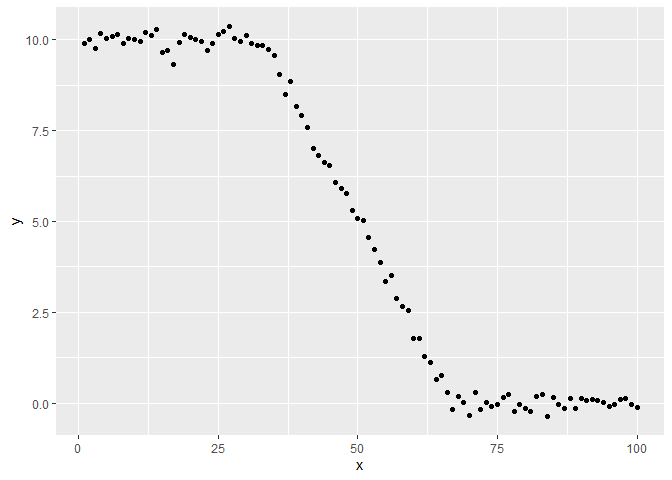
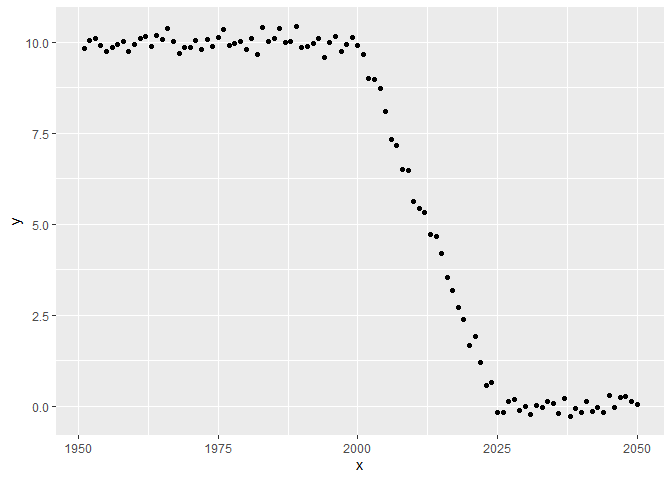
Added Installation Instructions

diff --git a/README.md b/README.md
@@ -15,7 +15,7 @@ Guner (2023)
 You can install the development version of DTtiming like so:
 
 ``` r
-# FILL THIS IN! HOW CAN PEOPLE INSTALL YOUR DEV PACKAGE?
+remotes::install_github("https://github.com/m-g-h/DTtiming")
 ```
 
 ## Example
@@ -25,18 +25,17 @@ Setup and example data:
 ``` r
 library(DTtiming)
 library(ggplot2)
-## basic example code
 
 ## Create example data:
 T_max = 100
-x_t = rep(1, T_max)
-tau_2 = 33
-tau_3 = 67
-y = matrix(make_z1_scalar(1:T_max, tau_2, tau_3)*10 + rnorm(T_max, sd = 0.2),
+t = 1950+(1:T_max)
+tau_2 = 2000
+tau_3 = 2025
+y = matrix(make_z1_scalar(t, tau_2, tau_3)*10 + rnorm(T_max, sd = 0.2),
           ncol = 1)
 
 # Plot the data:
-ggplot(data.frame(x = 1:T_max,
+ggplot(data.frame(x = t,
                   y = y),
   aes(x = x, y = y)) +
   geom_point()
@@ -60,63 +59,60 @@ All relevant parameters are returned:
 ``` r
 DT_fit
 #> $alpha
-#>      alpha_1      alpha_3 
-#>  9.987139349 -0.004478673 
+#>       alpha_1       alpha_3 
+#>  9.9911061047 -0.0002470735 
 #> 
 #> $sigma_sq
 #> sigma_sq_1 sigma_sq_3 
-#> 0.03478493 0.02372242 
+#> 0.03392059 0.02716421 
 #> 
 #> $tau
 #> tau_2 tau_3 
-#>    33    67 
+#>    50    75 
 #> 
 #> $y
-#>   [1]  9.890167819 10.020203687  9.759041933 10.184980403 10.039595950
-#>   [6] 10.096792669 10.147495896  9.898873318 10.043389016 10.011763348
-#>  [11]  9.966050699 10.213709636 10.128684842 10.275726922  9.640255337
-#>  [16]  9.720294418  9.327009406  9.930898442 10.156115581 10.070578250
-#>  [21] 10.015427710  9.949626466  9.712690189  9.895488752 10.149218676
-#>  [26] 10.231467910 10.361053427 10.044765335  9.964233155 10.125179303
-#>  [31]  9.898198425  9.844739951  9.840190949  9.728676934  9.583397621
-#>  [36]  9.059907473  8.495441461  8.845033362  8.164286380  7.916955362
-#>  [41]  7.575871913  7.005766973  6.819672736  6.613282032  6.537927149
-#>  [46]  6.081440068  5.905171193  5.776291182  5.303095091  5.093959962
-#>  [51]  5.038260379  4.570676159  4.220510832  3.882622736  3.359684266
-#>  [56]  3.503205643  2.866167490  2.671116562  2.560773310  1.789546569
-#>  [61]  1.769174757  1.271590335  1.111976547  0.648370285  0.765391982
-#>  [66]  0.295301403 -0.182389037  0.184185631  0.025580466 -0.340099596
-#>  [71]  0.284500425 -0.165963771  0.005081034 -0.085596164 -0.042550736
-#>  [76]  0.162345892  0.241675481 -0.219051022 -0.040603517 -0.161481895
-#>  [81] -0.219935028  0.192610117  0.230306495 -0.355179036  0.147085460
-#>  [86] -0.042487424 -0.140062243  0.119271357 -0.152930038  0.116276047
-#>  [91]  0.076812450  0.085554178  0.075879233  0.023715075 -0.089159599
-#>  [96] -0.051959602  0.112950941  0.134099638 -0.051685488 -0.124024882
+#>   [1]  9.81559941 10.04116663 10.09262839  9.92158327  9.74988627  9.85635686
+#>   [7]  9.94676542 10.01008928  9.75391763  9.92302483 10.09624282 10.16788880
+#>  [13]  9.89509541 10.18079171 10.06412345 10.36969151 10.02197098  9.70114019
+#>  [19]  9.84877976  9.84816401 10.03601738  9.80682423 10.07746869  9.88382435
+#>  [25] 10.14002805 10.34583038  9.91531077  9.97062246 10.03000708  9.80369614
+#>  [31] 10.10378120  9.65479454 10.40603044 10.02928931 10.08856186 10.37533121
+#>  [37]  9.99517284 10.01568301 10.42354985  9.84162851  9.88099758  9.97548229
+#>  [43] 10.10082831  9.57883813  9.98621688 10.15938566  9.73415888  9.93938333
+#>  [49] 10.12711402  9.91138105  9.66823175  9.00166787  8.96119905  8.73662052
+#>  [55]  8.10131307  7.31726470  7.17321175  6.50654816  6.48175681  5.63153779
+#>  [61]  5.43486151  5.33426453  4.72422165  4.65860236  4.19751433  3.54346724
+#>  [67]  3.17569933  2.71492670  2.37421413  1.68033502  1.92559125  1.19693078
+#>  [73]  0.57822333  0.66239580 -0.17668770 -0.17728216  0.14101733  0.18256314
+#>  [79] -0.11458882 -0.01622389 -0.22517991  0.01733328 -0.04172466  0.12250288
+#>  [85]  0.07643121 -0.20221199  0.21438682 -0.26986148 -0.06414734 -0.16877885
+#>  [91]  0.12646352 -0.13706212 -0.04556253 -0.17163336  0.29402406 -0.03181302
+#>  [97]  0.24170050  0.25963055  0.13766851  0.04548125
 #> 
 #> $y_hat
-#>   [1]  9.987139349  9.987139349  9.987139349  9.987139349  9.987139349
-#>   [6]  9.987139349  9.987139349  9.987139349  9.987139349  9.987139349
-#>  [11]  9.987139349  9.987139349  9.987139349  9.987139349  9.987139349
-#>  [16]  9.987139349  9.987139349  9.987139349  9.987139349  9.987139349
-#>  [21]  9.987139349  9.987139349  9.987139349  9.987139349  9.987139349
-#>  [26]  9.987139349  9.987139349  9.987139349  9.987139349  9.987139349
-#>  [31]  9.987139349  9.987139349  9.987139349  9.693268231  9.399397113
-#>  [36]  9.105525994  8.811654876  8.517783758  8.223912639  7.930041521
-#>  [41]  7.636170403  7.342299285  7.048428166  6.754557048  6.460685930
-#>  [46]  6.166814811  5.872943693  5.579072575  5.285201456  4.991330338
-#>  [51]  4.697459220  4.403588102  4.109716983  3.815845865  3.521974747
-#>  [56]  3.228103628  2.934232510  2.640361392  2.346490274  2.052619155
-#>  [61]  1.758748037  1.464876919  1.171005800  0.877134682  0.583263564
-#>  [66]  0.289392446 -0.004478673 -0.004478673 -0.004478673 -0.004478673
-#>  [71] -0.004478673 -0.004478673 -0.004478673 -0.004478673 -0.004478673
-#>  [76] -0.004478673 -0.004478673 -0.004478673 -0.004478673 -0.004478673
-#>  [81] -0.004478673 -0.004478673 -0.004478673 -0.004478673 -0.004478673
-#>  [86] -0.004478673 -0.004478673 -0.004478673 -0.004478673 -0.004478673
-#>  [91] -0.004478673 -0.004478673 -0.004478673 -0.004478673 -0.004478673
-#>  [96] -0.004478673 -0.004478673 -0.004478673 -0.004478673 -0.004478673
+#>   [1]  9.9911061047  9.9911061047  9.9911061047  9.9911061047  9.9911061047
+#>   [6]  9.9911061047  9.9911061047  9.9911061047  9.9911061047  9.9911061047
+#>  [11]  9.9911061047  9.9911061047  9.9911061047  9.9911061047  9.9911061047
+#>  [16]  9.9911061047  9.9911061047  9.9911061047  9.9911061047  9.9911061047
+#>  [21]  9.9911061047  9.9911061047  9.9911061047  9.9911061047  9.9911061047
+#>  [26]  9.9911061047  9.9911061047  9.9911061047  9.9911061047  9.9911061047
+#>  [31]  9.9911061047  9.9911061047  9.9911061047  9.9911061047  9.9911061047
+#>  [36]  9.9911061047  9.9911061047  9.9911061047  9.9911061047  9.9911061047
+#>  [41]  9.9911061047  9.9911061047  9.9911061047  9.9911061047  9.9911061047
+#>  [46]  9.9911061047  9.9911061047  9.9911061047  9.9911061047  9.9911061047
+#>  [51]  9.5914519776  9.1917978504  8.7921437233  8.3924895962  7.9928354690
+#>  [56]  7.5931813419  7.1935272148  6.7938730877  6.3942189605  5.9945648334
+#>  [61]  5.5949107063  5.1952565792  4.7956024520  4.3959483249  3.9962941978
+#>  [66]  3.5966400706  3.1969859435  2.7973318164  2.3976776893  1.9980235621
+#>  [71]  1.5983694350  1.1987153079  0.7990611808  0.3994070536 -0.0002470735
+#>  [76] -0.0002470735 -0.0002470735 -0.0002470735 -0.0002470735 -0.0002470735
+#>  [81] -0.0002470735 -0.0002470735 -0.0002470735 -0.0002470735 -0.0002470735
+#>  [86] -0.0002470735 -0.0002470735 -0.0002470735 -0.0002470735 -0.0002470735
+#>  [91] -0.0002470735 -0.0002470735 -0.0002470735 -0.0002470735 -0.0002470735
+#>  [96] -0.0002470735 -0.0002470735 -0.0002470735 -0.0002470735 -0.0002470735
 #> 
 #> $RSS
-#> [1] 3.268356
+#> [1] 3.469634
 ```
 
 ## References
